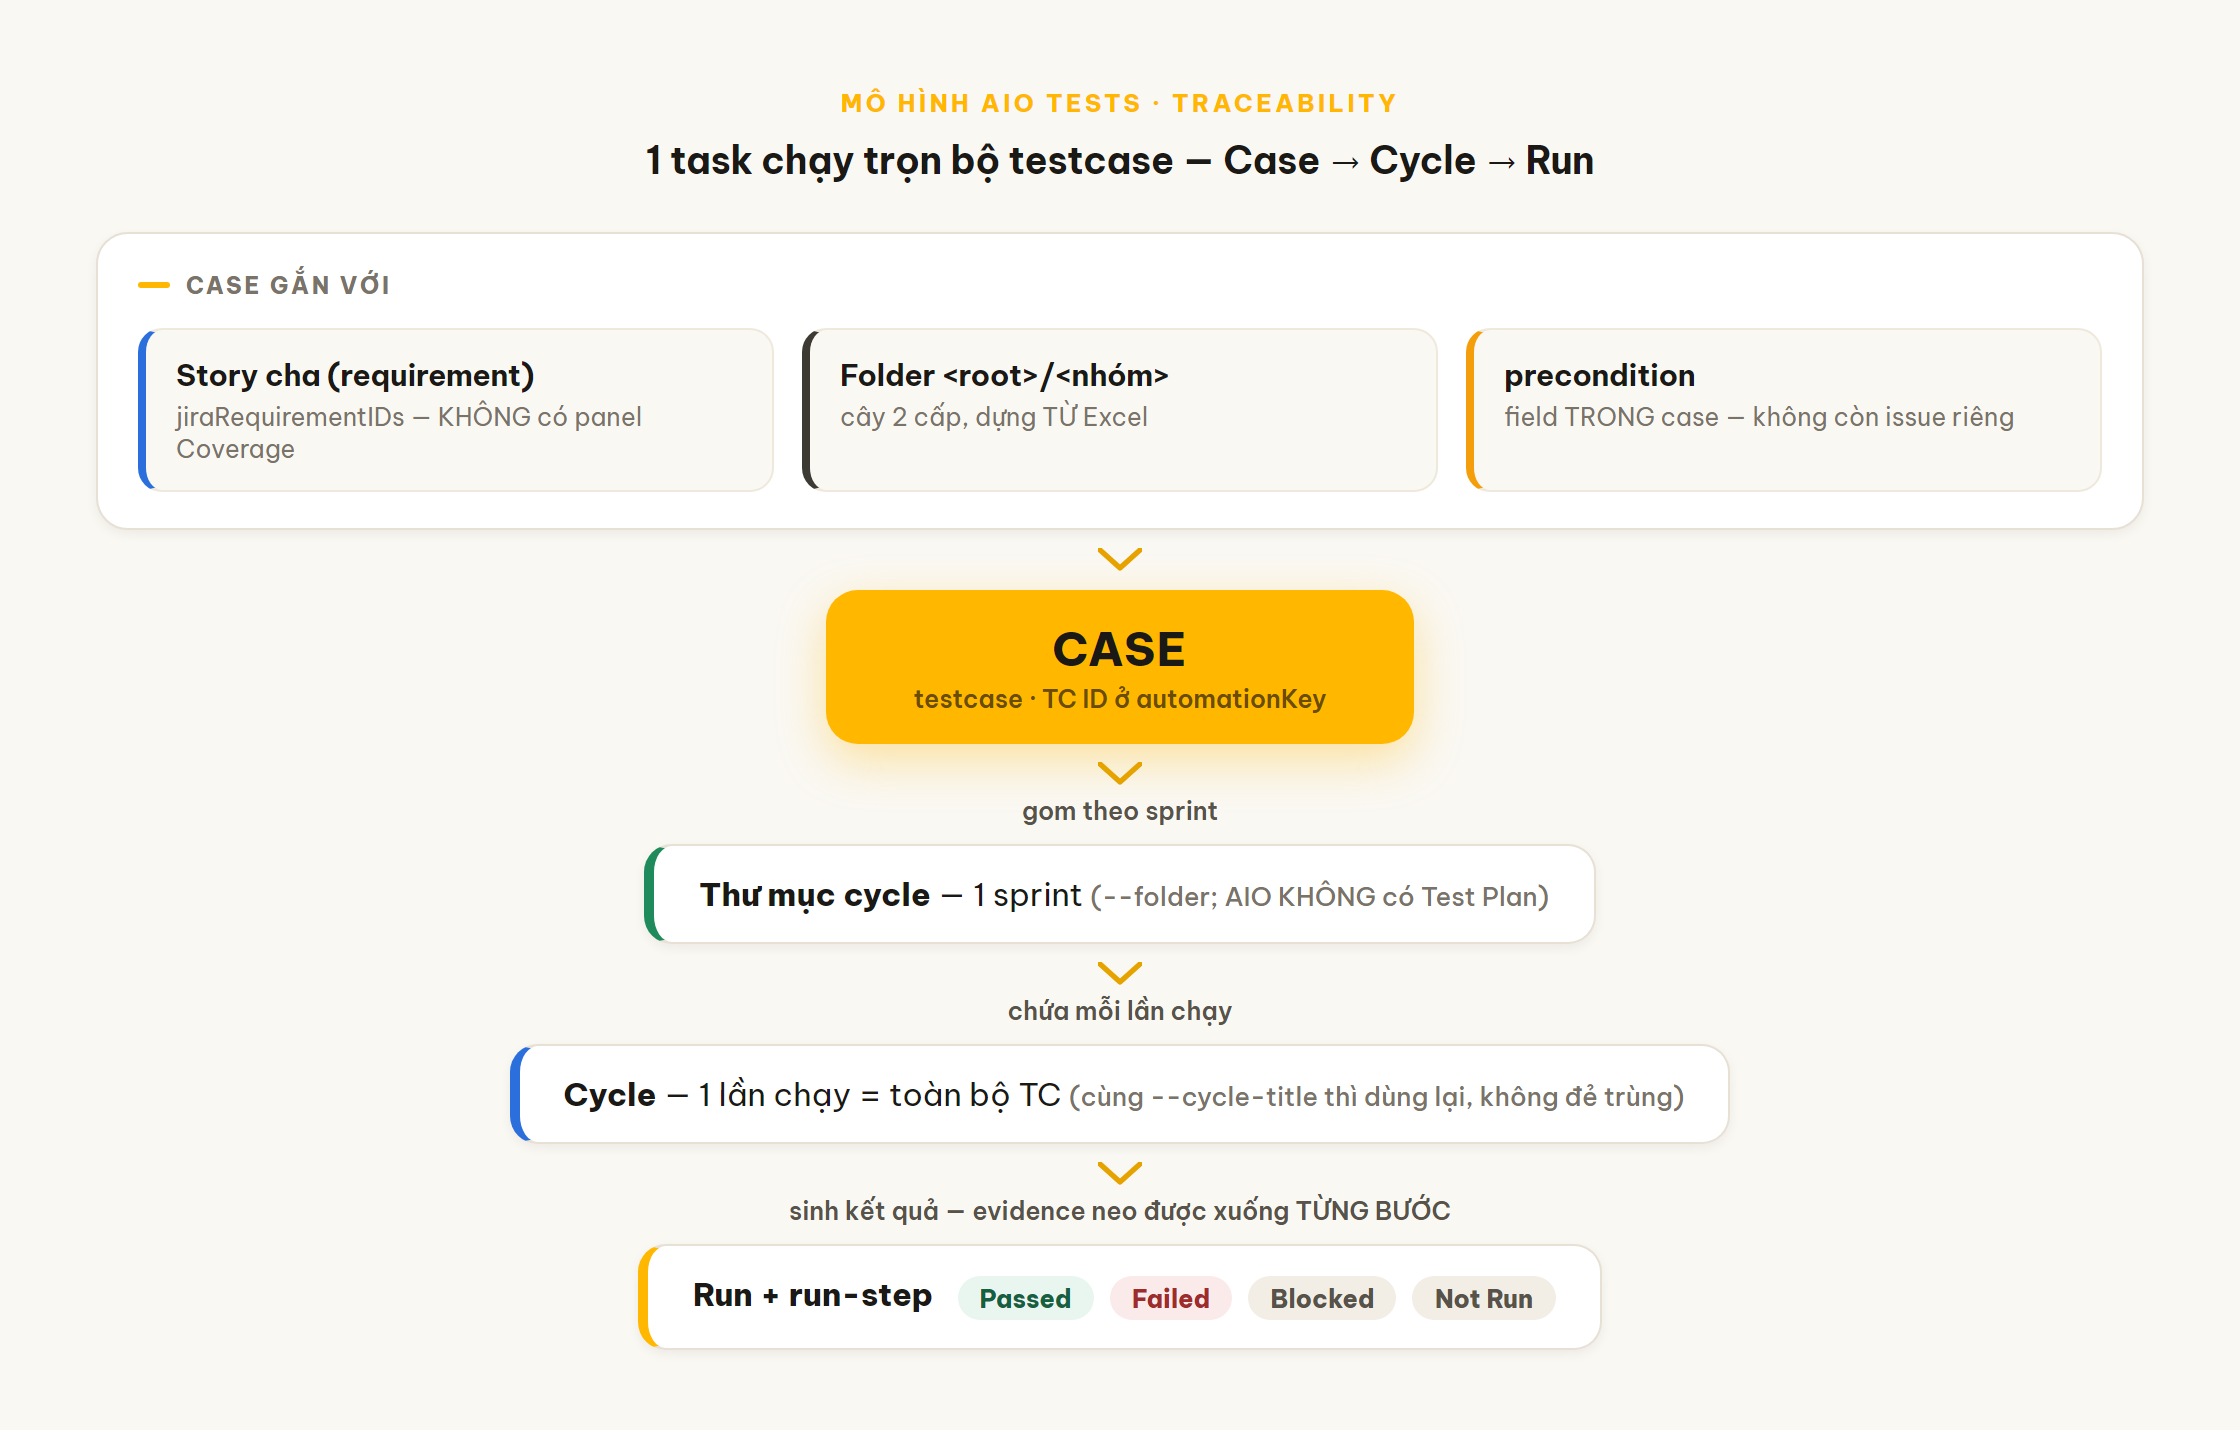
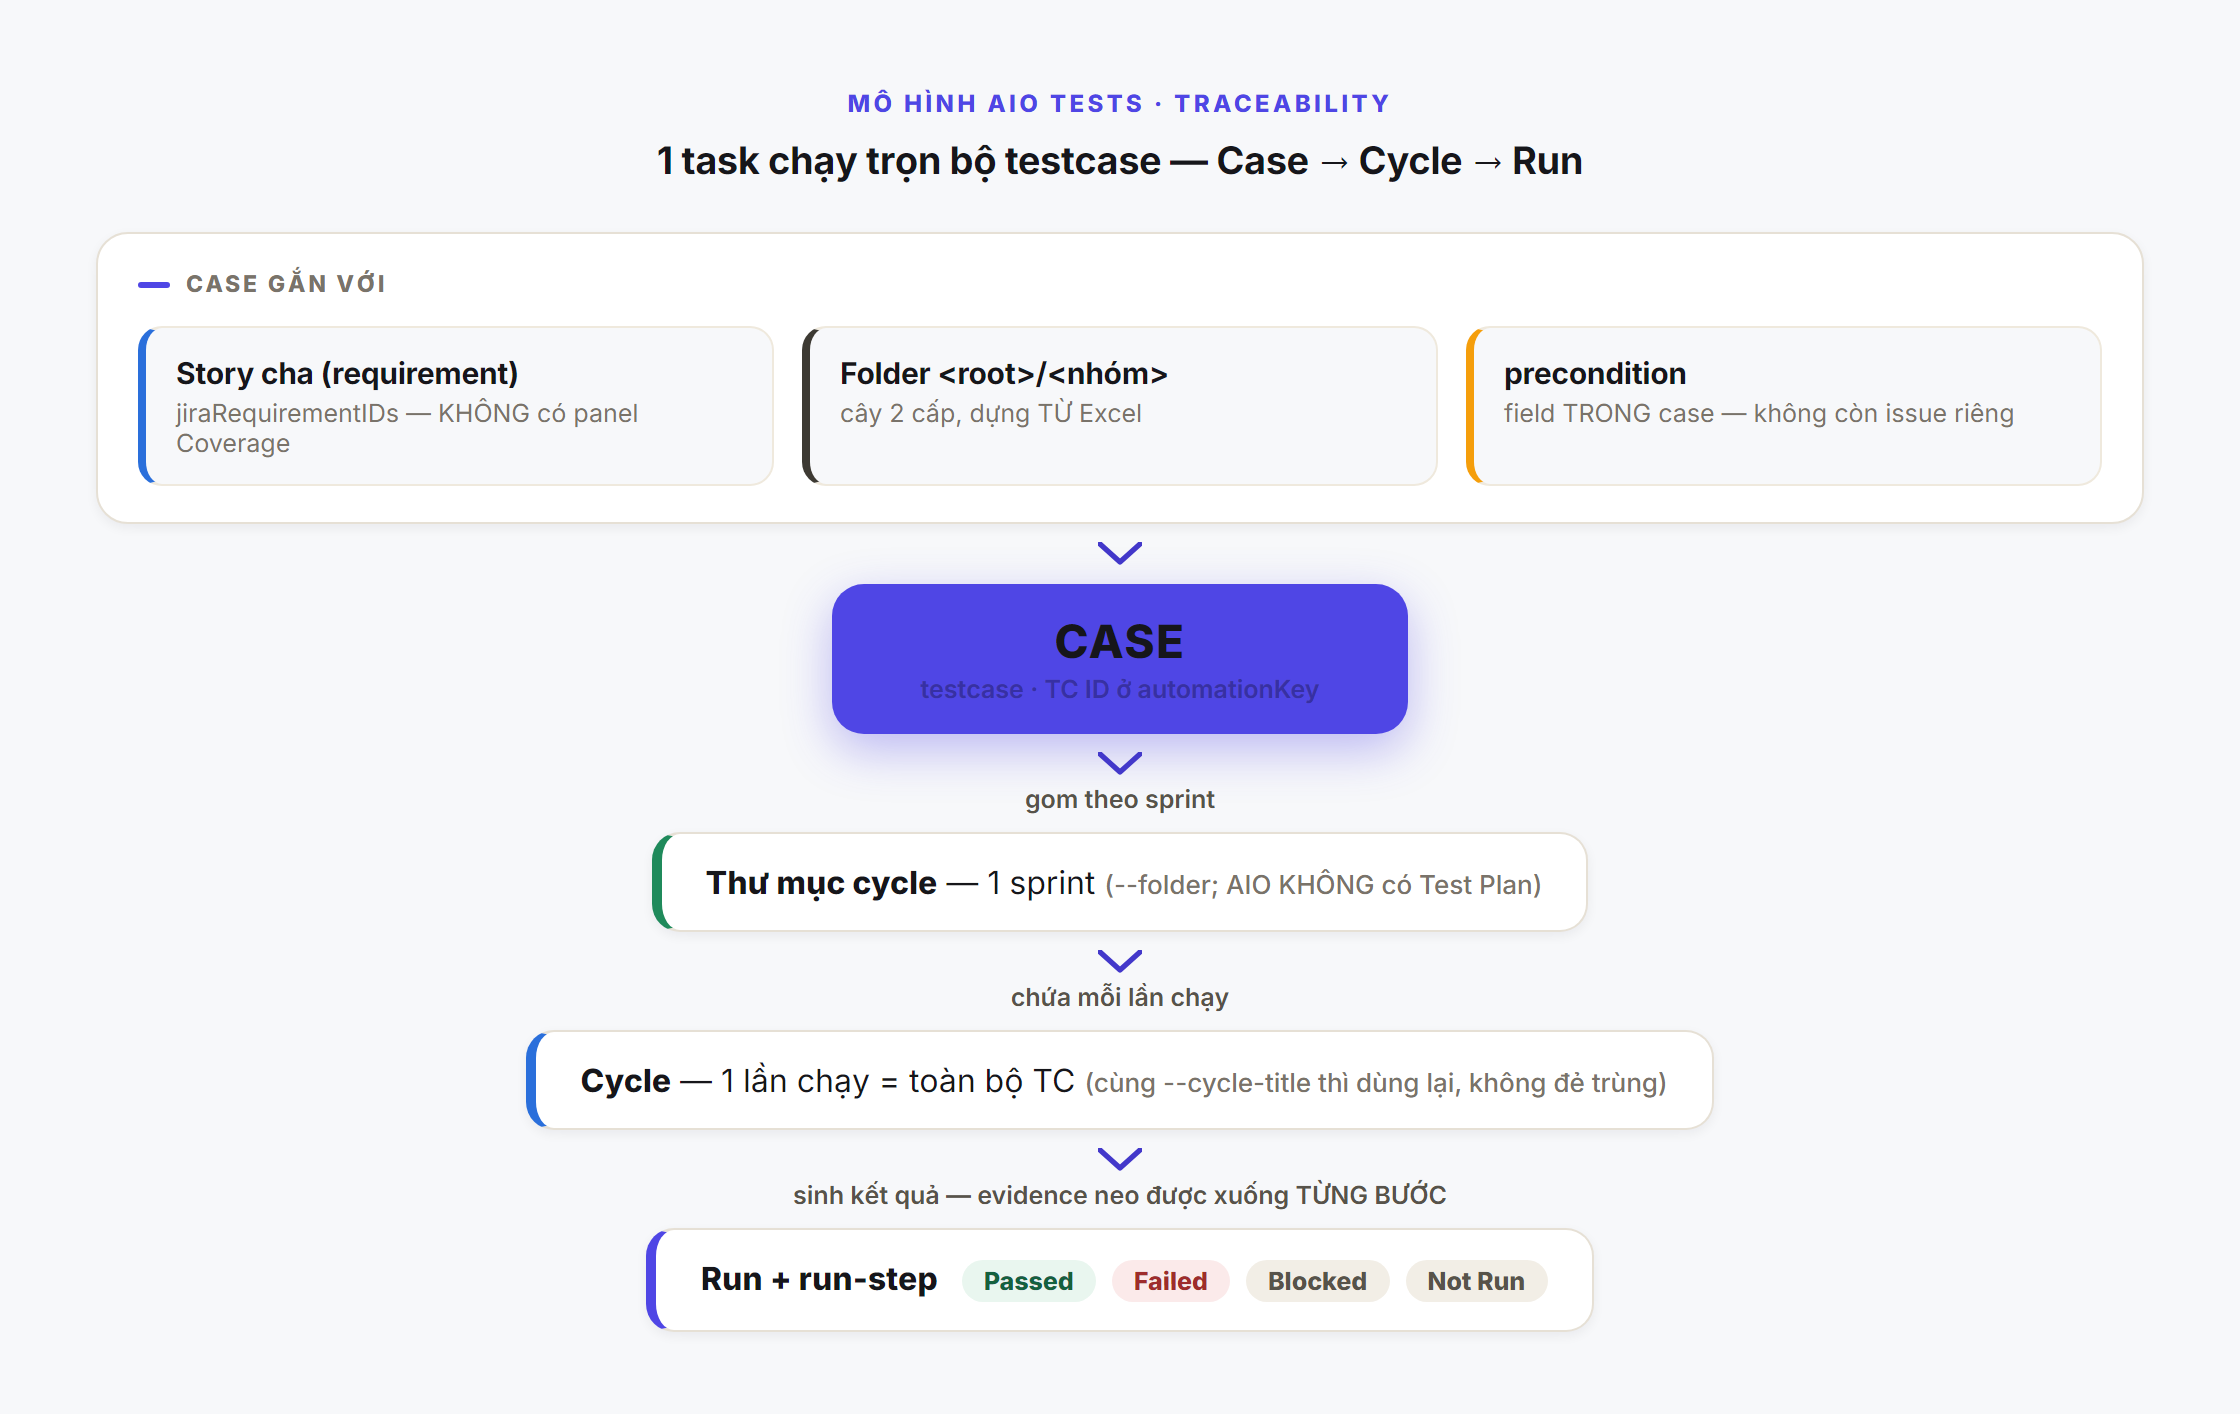
chore(docs): vẽ lại 10 ảnh User Guide, gỡ sạch nhận diện công ty
USER_GUIDE.md thuộc LỚP GENERIC, tức đi theo gói phát hành tới đội khác. Logo,
khẩu hiệu và màu thương hiệu của một công ty cụ thể không có chỗ ở đó.

Gỡ bốn thứ, không chỉ cái logo:
  logo nhúng       docs/brand/logo-sapp.png base64  ->  chữ "QA Automation Kit"
  khẩu hiệu        "Advance your career"            ->  bỏ hẳn
  màu thương hiệu  vàng #FFB700 và #E6A300          ->  chàm #4F46E5
  nền ấm của DS    mực #1A1916, nền #FAF8F3         ->  trung tính #16161A, #F7F8FA
Font đổi Be Vietnam Pro sang Inter. Cả hai đều là font công cộng đủ dấu tiếng
Việt; đổi vì Be Vietnam Pro được khai trong design system của công ty.

Quét chữ không đủ để nghiệm thu. Sau lượt thay token đầu, grep thì sạch nhưng mở
ảnh ra vẫn thấy mũi tên màu vàng: hai hex #E6A300 và #6B4C00 nằm thẳng trong SVG,
không qua token. Phải đọc ảnh thật mới thấy.

Một lỗi thật do đổi tên khoá: đổi C.gold thành C.accent làm một chỗ gọi C.gold
còn sót trỏ vào undefined. Bắt được nhờ quét lại toàn file sau khi thay.

KHÔNG đụng hai chỗ khác cùng dùng logo đó. scripts/qa/dashboard_generate.js và
docs/library/build.js là tài liệu NỘI BỘ, không phát ra ngoài, và có quy định
riêng bắt phải theo design system của công ty. Đã ghi ranh giới này ngay đầu file
sinh ảnh để người sau không dọn nhầm.

594/594 test hạ tầng xanh, spec ảnh 4/4.

diff --git a/CHANGELOG.md b/CHANGELOG.md
@@ -7,6 +7,40 @@
 > `.agent/**`, `tests/support/**` đều là **shared change** (xem `RULE_GLOBAL.md` §Shared Change Gate) —
 > ảnh hưởng mọi story đang chạy. Mỗi mục ghi **vấn đề → cách chữa**, không chỉ liệt kê tính năng.
 
+## 2026-09-19 (tối) — Vẽ lại 10 ảnh User Guide, gỡ sạch nhận diện công ty
+
+**Vì sao.** `USER_GUIDE.md` thuộc LỚP GENERIC, tức đi theo gói phát hành tới đội khác. Logo, khẩu hiệu
+và màu thương hiệu của một công ty cụ thể không có chỗ ở đó.
+
+**Đã gỡ bốn thứ**, không chỉ cái logo:
+
+| Thứ | Trước | Sau |
+| --- | --- | --- |
+| logo nhúng | `docs/brand/logo-sapp.png` base64 trong mọi board | chữ "QA Automation Kit" |
+| khẩu hiệu | "Advance your career" | bỏ hẳn |
+| màu thương hiệu | vàng `#FFB700` và `#E6A300` | chàm `#4F46E5` |
+| nền ấm của DS | mực `#1A1916`, nền `#FAF8F3` | trung tính `#16161A`, `#F7F8FA` |
+
+Font đổi từ Be Vietnam Pro sang Inter.
+Cả hai đều là font công cộng và đều đủ dấu tiếng Việt.
+Đổi vì Be Vietnam Pro được khai trong design system của công ty.
+
+**Quét chữ không đủ để nghiệm thu.** Sau lượt thay token đầu, quét chữ thì sạch.
+Nhưng **mở ảnh ra vẫn thấy mũi tên màu vàng**. Hai hex `#E6A300` và `#6B4C00` nằm thẳng trong SVG,
+không qua token. Phải đọc ảnh thật mới thấy.
+
+**Một lỗi thật do đổi tên khoá.** Đổi `C.gold` thành `C.accent` làm một chỗ gọi `C.gold` còn sót trỏ
+vào `undefined`. Bắt được nhờ quét lại toàn bộ file sau khi thay, không phải nhờ test.
+
+**KHÔNG đụng hai chỗ khác cùng dùng logo đó.** Đó là `scripts/qa/dashboard_generate.js` và
+`docs/library/build.js`. Hai thứ đó là tài liệu NỘI BỘ, không phát ra ngoài. Chúng còn có quy định
+riêng bắt phải theo design system của công ty. Đã ghi ranh giới này ngay đầu file sinh ảnh.
+
+**Còn ba câu nhắc tên công ty** trong README, QUICKSTART và USER_GUIDE.
+Cả ba cùng một ý: mô tả `npm run dashboard` dùng design system của công ty. Câu đó ĐÚNG sự thật nên
+chưa sửa. Sửa thì hoặc nói sai, hoặc phải gỡ nhận diện cả dashboard. Việc đó trái quy định đang có,
+nên chờ chủ repo quyết.
+
 ## 2026-09-19 (chiều) — Đổi reporter Playwright sang `dot`, và gỡ một quả bom hẹn giờ
 
 **Đổi `['list']` thành `['dot']`.** Đây là việc mà đợt đánh giá RTK chỉ ra, và nó không cần cài gì.
